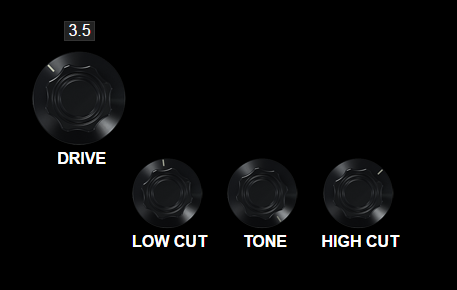
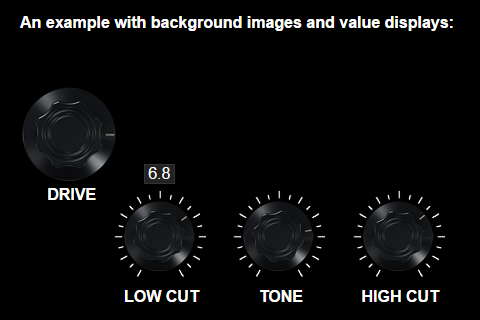
Add the background image option

diff --git a/src/js/potentiometer.js b/src/js/potentiometer.js
@@ -26,6 +26,12 @@
 			self.center = { x: 0, y: 0 }; // center of the widget, used for calculations
 			self.canvas = options.canvas;
 
+			// if the user has provided a bg image, attach it to self
+			if (options.bgImgUrl !== undefined) {
+				self.bgImg = new Image();
+				self.bgImg.src = options.bgImgUrl;
+			}
+
 			// the entire spritesheet
 			self.spritesheet = new Image();
 			self.spritesheet.src = options.spritesheetUrl;
@@ -38,6 +44,7 @@
 			if (self.leftBound >= self.rightBound)
 				throw new Error('Left bound must be lower then the rigth bound');
 
+			// When the spritesheet loads...
 			self.spritesheet.onload = function() {
 				setUpCanvas(self);
 				setUpContext(self);
@@ -81,6 +88,10 @@
 
 					drawKnob(self);
 
+					// Draw the background image if it exists
+					if (self.bgImg !== undefined) 
+						drawBgImg(self);
+
 					setUpMouseListeners(self);
 
 					// Recalculate centers when window resizes
@@ -106,12 +117,21 @@
 	}
 
 	function setUpCanvas(self) {
-		// sprite dimensions are x * x
-		self.canvas.height = self.spritesheet.width;
-		self.canvas.width  = self.spritesheet.width;
+		/* Canvas dimensions are x * x
+		*
+		*  If we have a bgImg, size the canvas according to
+		*  it's size, if not use the spritesheet width 
+		*/
+		if (self.bgImg !== undefined) {
+			self.canvas.height = self.bgImg.height;
+			self.canvas.width  = self.bgImg.width;
+		} else {
+			self.canvas.height = self.spritesheet.width;
+			self.canvas.width  = self.spritesheet.width;
+		}
 	}
 
-	// set up canvas context on which we will draw on
+	// Sets up canvas context on which we will draw on
 	function setUpContext(self) {
 		self.context = self.canvas.getContext('2d');
 	}
@@ -154,15 +174,32 @@
 
 		function drawOnCanvas(self, yPos) {
 			var context = self.context;
-			context.clearRect(0, 0, context.width, context.height);
-			context.drawImage(self.spritesheet, 0, yPos);
+			context.clearRect(0, 0, self.canvas.width, self.canvas.height);
+
+			/* If there's a background image specified draw it after the knob, if not just draw the knob */
+			if (self.bgImg !== undefined) {
+				var knobWidth = self.spritesheet.width;
+				var xOffset = ((self.canvas.width -  knobWidth) / 2);
+				var yOffset = ((self.canvas.height - knobWidth) / 2);
+				// yPos' sign needs to be inverted for this to work... what a bunch of BS from the canvas API..
+				yPos = -yPos;
+				context.drawImage(self.spritesheet, 0, yPos, knobWidth, knobWidth, xOffset, yOffset, knobWidth, knobWidth);
+				drawBgImg(self);
+			} else {
+				context.drawImage(self.spritesheet, 0, yPos);
+			}
 
 			self.lastPosition = self.position;
 		}
 		
 	}
 
-	// Calculate the spritesheet y offset value
+	function drawBgImg(self) {
+		var context = self.context;
+		context.drawImage(self.bgImg, 0, 0);
+	}
+
+	// Calculates the spritesheet y offset value
 	function getYPos(percent, self) {
 		var yPos = - (~~(percent * self.numberOfSprites) * self.spritesheet.width);
 
@@ -262,6 +299,7 @@
 		};
 
 	}
+	/* ------------------------------------------------- */
 
 	// Make the constructor available in the global scope
 	global.Potentiometer = Potentiometer;

diff --git a/demo/demo2.html b/demo/demo2.html
@@ -24,12 +24,13 @@
 		}
 		#pots {
 			display: block;
-			margin: 100px auto 15px;
+			margin: 30px auto 15px;
+			padding-left: 120px;
 			text-align: center;
 		}
 		#small-pots {
 			height: 150px;
-			width: 350px;
+			width: 370px;
 			margin: 0 auto;
 			margin-top: -40px;
 		}
@@ -47,7 +48,7 @@
 		canvas {
 			display: inline-block;
 			margin-right: 20px;
-			margin-top: 30px;
+			margin-top: 25px;
 		}
 		.pot-value {
 			position: absolute;
@@ -55,7 +56,7 @@
 			border: 1px solid #333;
 			padding: 0 0.2em;
 			display: none;
-			margin-left: 1.3em;
+			margin-left: 2em;
 		}
 		#pot1-value {
 			margin-left: 2em;
@@ -72,6 +73,7 @@
 		arc:<br>
 		position:
 	</div>
+	<h1 style="font-size: 100%; text-align: center">An example with background images and value displays:</h1>
 
 	<div id="pots">
 		
@@ -122,28 +124,30 @@
 
 			"use strict";
 
-
 			// A big pot
 			pot1 = new Potentiometer({ canvas: document.getElementById('pot1'), 
 						    		   spritesheetUrl: '../src/img/decapitator_pot_big.png',
-						    		   leftBound: 10,
-						    		   rightBound: 90 });
+						    		   leftBound: 8,
+						    		   rightBound: 91 });
 
 			// 3 small ones
 			pot2 = new Potentiometer({ canvas: document.getElementById('pot2'), 
 							   		   spritesheetUrl: '../src/img/decapitator_pot_med.png',
-						    		   leftBound: 10,
-						    		   rightBound: 90 });
+						    		   leftBound: 8,
+						    		   rightBound: 91,
+						    		   bgImgUrl: '../src/img/decapitator_background_md.png' });
 
 			pot3 = new Potentiometer({ canvas: document.getElementById('pot3'), 
 							  	 	   spritesheetUrl: '../src/img/decapitator_pot_med.png',
-						    		   leftBound: 10,
-						    		   rightBound: 90 });
+						    		   leftBound: 8,
+						    		   rightBound: 91,
+						    		   bgImgUrl: '../src/img/decapitator_background_md.png' });
 
 			pot4 = new Potentiometer({ canvas: document.getElementById('pot4'), 
 							  	 	   spritesheetUrl: '../src/img/decapitator_pot_med.png',
-						    		   leftBound: 10,
-						    		   rightBound: 90 });
+						    		   leftBound: 8,
+						    		   rightBound: 91,
+						    		   bgImgUrl: '../src/img/decapitator_background_md.png' });
 
 			// Used for storing all timeouts
 			var valueDisplayTimeouts = [];
@@ -154,6 +158,9 @@
 				/* This widget's value ranges from 0 to 100, it's up to you to decide
 				* what to do with that data. You can display it, use it for some calculations
 				* or who knows what :) */
+
+				// In this example I will show the value of the pots on a simple value display
+				// which appers when the pot is activated, and disappears after 1 second
 
 				var eventEmitterId = event.srcId;
 

diff --git a/demo/demo1.html b/demo/demo1.html
@@ -19,14 +19,14 @@
 			-moz-user-select: none;
 			-ms-user-select: none;
 			user-select: none;
+			color: white;
 		}
 		#pots {
 			display: inline-block;
-			margin: 200px auto 15px;
+			margin: 30px auto 15px;
 			margin-left: calc(50% - 83px);
 		}
 		#labels {
-			color: white;
 			text-align: center;
 			margin-left: -15px;
 		}
@@ -43,12 +43,14 @@
 
 <body>
 	<!-- Some development info -->
-	<div id="cursorInfo" style="color: white">
+	<div id="cursorInfo">
 		x:<br>
 		y:<br>
 		arc:<br>
 		position:
 	</div>
+
+	<h1 style="font-size: 100%; text-align: center">A basic EQ use case scenario:</h1>
 
 	<!-- Here we've lined up 3 widgets with labels for each of them -->
 	<div id="pots">
@@ -63,9 +65,9 @@
 	</div>
 	
 	<!-- This div displays the information "broadcasted" by the widgets -->
-	<div id="db" style="display: block; color: white; font-style: italic; text-align: center;">0 db</div>
+	<div id="db" style="display: block; font-style: italic; text-align: center;">0 db</div>
 	
-	<p style="color:white; width: 600px; margin: 0 auto; margin-top: 30px;">
+	<p style="width: 600px; margin: 0 auto; margin-top: 30px;">
 		The 'Treble' knob has limited movement range, which can be specified (or omitted) in the options object's leftBound and rightBound properties.
 	</p>
 	
